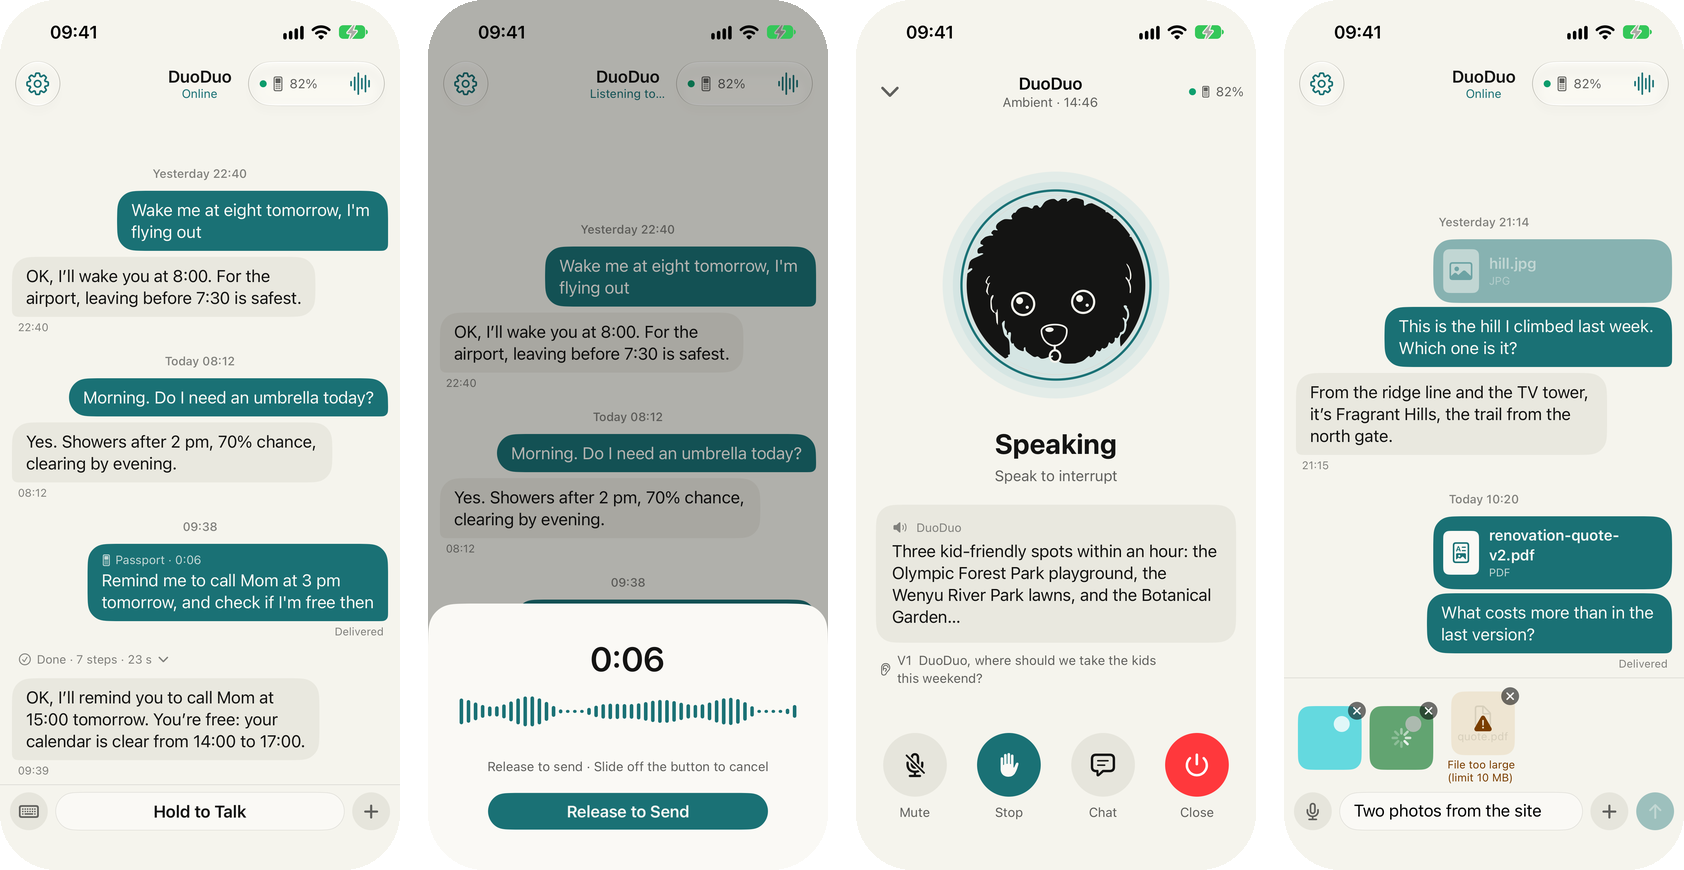
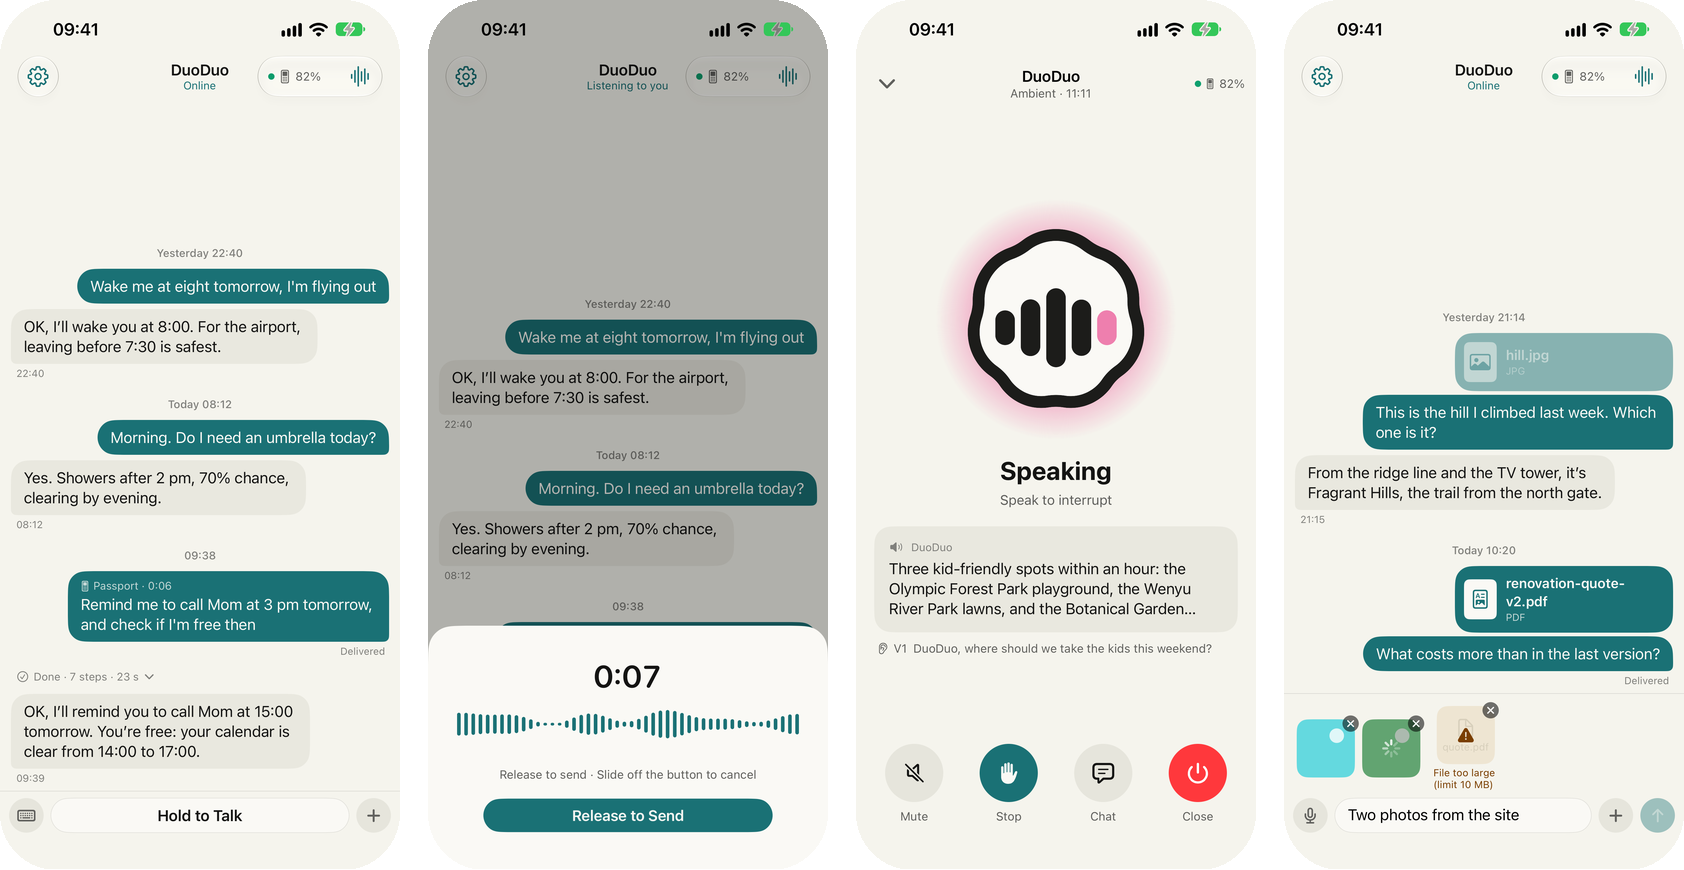
docs: current app and Passport screens; read /api/state with a device token
The README strips still showed the old avatar. The acceptance check in
deploy.md curled /api/state without a token, which answers 401 once
devices are paired.

diff --git a/docs/deploy.md b/docs/deploy.md
@@ -750,10 +750,11 @@ curl -s http://127.0.0.1:<port>/healthz
 answers `{"ok":true,"rooms":<n>}`.
 
 **2. The channel reached the cerebellum.** The bridge logs `cerebellum connected`. In the state
-endpoint, `cerebellum_ok` is `true`:
+endpoint, `cerebellum_ok` is `true`. The endpoint answers `401` without a paired device's token
+(section 5b), so read it in a paired browser at `/api/state`, or present a device token:
 
 ```bash
-curl -s "http://127.0.0.1:<port>/api/state?room=<room_id>"
+curl -s -H "Authorization: Bearer <device token>" "http://127.0.0.1:<port>/api/state"
 ```
 
 **3. A browser holds the capture seat.** In that same reply, `capture.owner` is non-null and
